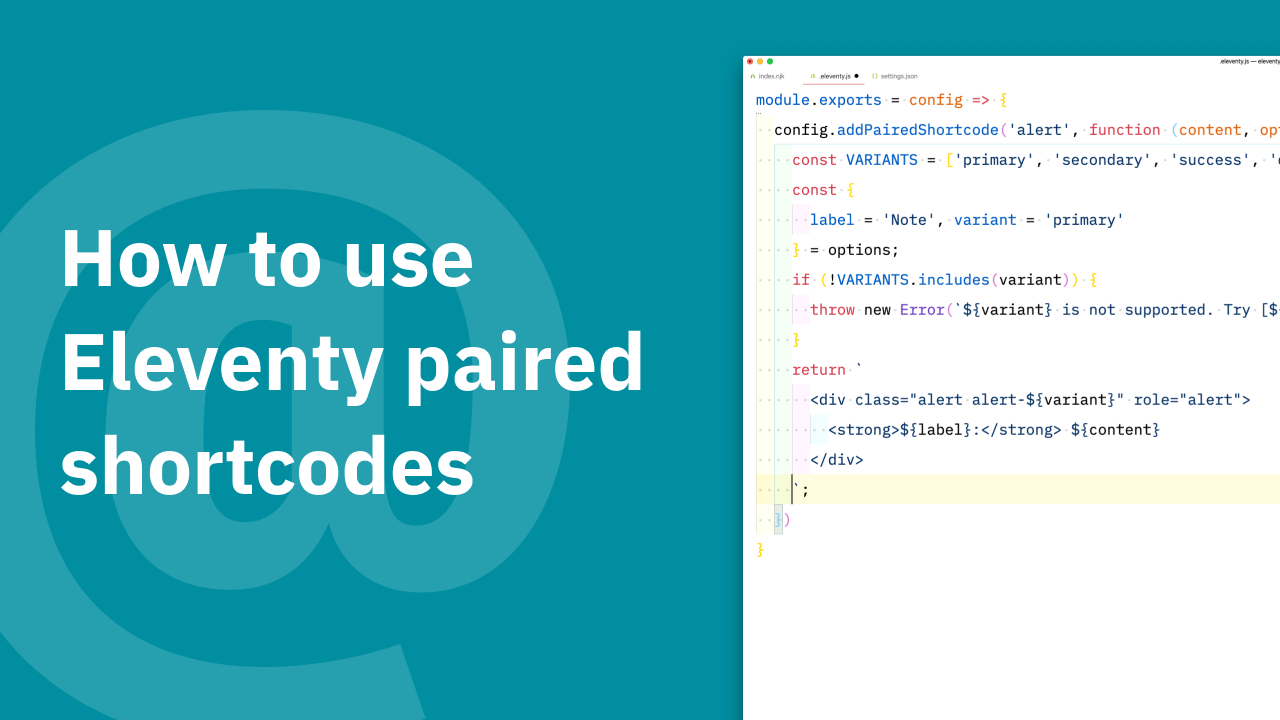
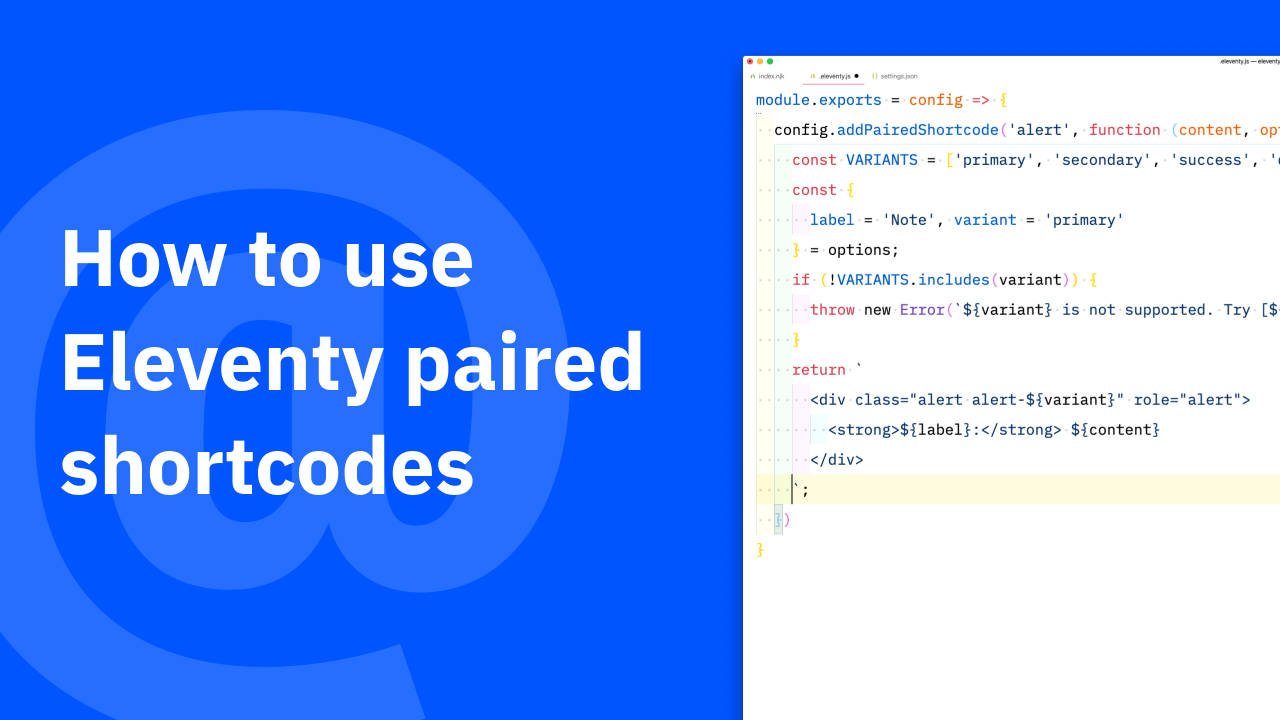
Add learn section

diff --git a/_eleventy/filters.js b/_eleventy/filters.js
@@ -1,4 +1,5 @@
 const markdown = require('./utils');
+const slugify = require('@sindresorhus/slugify');
 const R = require('ramda');
 const htmlmin = require('html-minifier');
 const CleanCSS = require('clean-css');
@@ -71,6 +72,8 @@ module.exports = {
   newsletterPosts: arr => arr.filter(x => x.data.tags && x.data.tags.includes('newsletter')),
 
   includes: (x, y) => R.includes(y, x),
+
+  kebab: str => slugify(str),
 
   hostname: href => {
     const match = href.match(

diff --git a/src/_includes/assets/app.css b/src/_includes/assets/app.css
@@ -181,6 +181,14 @@ mark {
   background-color: #fff294;
 }
 
+hr {
+  margin-top: 2rem !important;
+  margin-bottom: 2rem;
+  width: 100%;
+  border: 0;
+  height: 2px;
+  background-color: var(--theme-border-color);
+}
 
 
 

diff --git a/src/screencasts/2020-04-14-eleventy-paired-shortcodes.md b/src/screencasts/2020-04-14-eleventy-paired-shortcodes.md
@@ -4,7 +4,6 @@ summary: 'Learn how to make a reusable Bootstrap alert using paired shortcodes a
 thumbnail: '/assets/images/thumbnail-eleventy-paired-shortcodes.png'
 youtubeId: 'nUlB8SR039w '
 duration: '4:55'
-primaryColor: '#008ea0'
 tags:
   - 11ty
 ---
